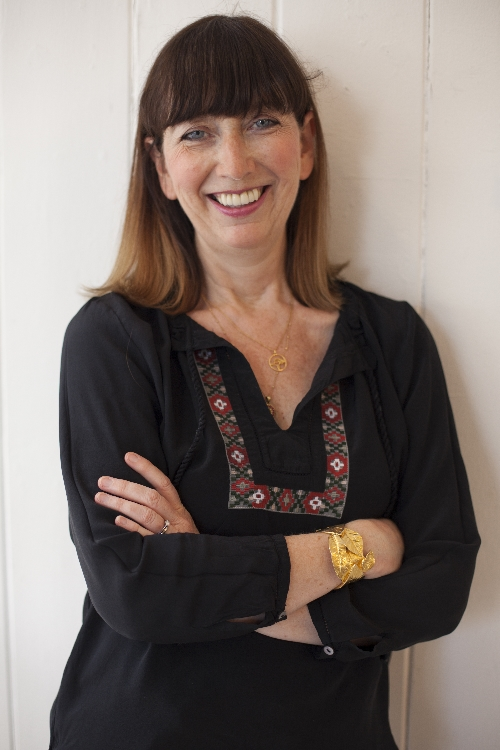
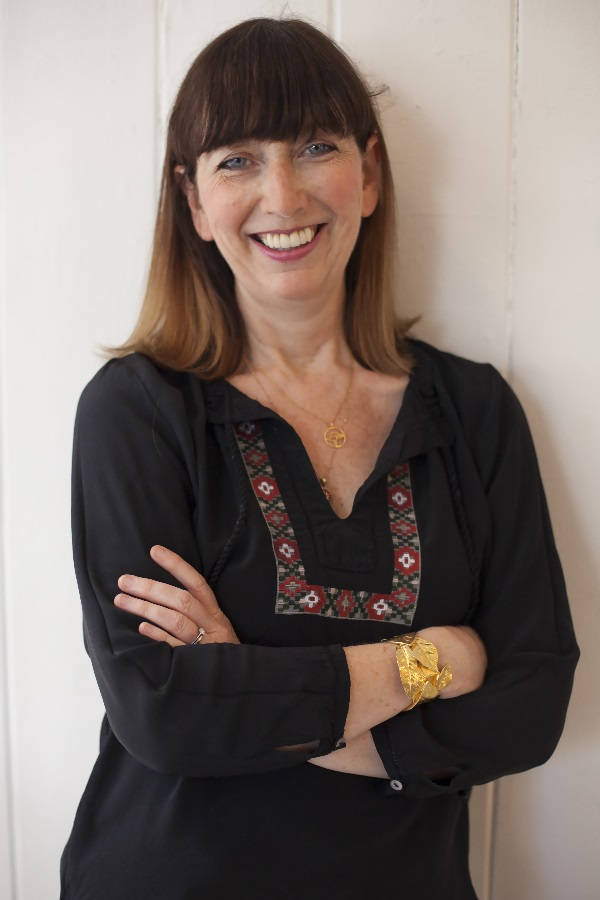
Homepage Maybe

diff --git a/LucyEdgeApp/src/app/ContentArea/Home.html b/LucyEdgeApp/src/app/ContentArea/Home.html
@@ -9,7 +9,9 @@
       </h1><br>
       <div class="subheading mb-5">
 
-        <a href="mailto:lucy@lucyedge.com">lucy@lucyedge.com</a> <br> +44 (0) 7967 757441
+        <a href="mailto:lucy@lucyedge.com">lucy@lucyedge.com</a> <br>
+    <a style="color:#FFFFFF" href="tell: +44 (0) 7967 757441"> +44 (0) 7967 757441</a>
+
       </div>
       <p class="lead mb-5"  >
         Brand Strategist,
@@ -33,28 +35,30 @@
         </div> -->
 </div>
   </section>
-        <div id="tabMore" class="tabMore"><fa-icon [icon]="faChevronDown"></fa-icon></div>
+          <div id="tabMore" class="tabMore"><fa-icon class="iconspink" [icon]="faChevronDown"></fa-icon></div>
   <section class=" p-3 p-lg-5 d-flex d-column" id="Home">
     <div class="my-auto">
 
       <div class="row">
-      <div class="d-none d-lg-block col-lg-4 text-center">
+      <div class="d-none d-lg-block col-lg-5 text-center">
 
       <picture>
          <source srcset="/assets/images/Homepic-Smaller.webp" type="image/webp">
          <source srcset="/assets/images/Homepic-Smaller.jpg" type="image/jpg">
-         <img src="/assets/images/Homepic-Smaller.jpg" alt="Lucy Edge About" class="img-fluid img-responsive img-thumbnail d-none d-sm-block ">
+         <img src="/assets/images/Homepic-Smaller.jpg" alt="Lucy Edge About" class="shadow img-fluid img-responsive d-none d-sm-block ">
      </picture>
 
         </div>
-        <div class="col-lg-8 text-left">
+        <div class="col-lg-7 text-left">
 
-
+<br />
 
                       <h4 class="d-none d-lg-block">  Brand Strategist + Freelance Copywriter Specialising in SEO Copywriting.</h4>
-            <br />
+
+                    <hr class="col-xs-12 d-none d-lg-block"><br/>
+
           <div class="row">
-          <div class="col-sm-12 text-left">
+          <div class="ml-3 col-sm-11">
 
   <p>  Do you need help engaging your customers? Have you got a great brand story that needs telling? Need help turning your workshop outputs into inspiring research concepts? Do you want the words on the page to create evangelists for your brand?
   </p>
@@ -76,21 +80,31 @@
 
 
 
+        <br />
+
 
   <h4>Services</h4>
-  <br />
-<p>
-    <strong>Brand strategy</strong> – defining who are you and what you stand for – including brand manifestos and mission statements.
-</p><p>
-    <strong>SEO copywriting</strong> – commercially focused content marketing strategies, content creation and content editing – from blog posts to product descriptions.
-</p><p>
-    <strong>Conceptual copywriting</strong> – new product concepts, new brand platforms, brand extensions.
-</p><p>
-    <strong>Tone of voice</strong> – defining how you talk, and how you listen.
-</p><p>
-    <strong>Contact</strong> – <a href="mailto:lucy@lucyedge.com">lucy@lucyedge.com</a> 07967 757 441
-</p>
+<hr class="col-xs-12"><br/>
 
+<dl class="row ml-1">
+
+  <dt class="col-sm-4 text-truncate">Brand strategy</dt>
+  <dd class="col-sm-8">defining who are you and what you stand for – including brand manifestos and mission statements.</dd>
+
+  <dt class="col-sm-4 text-truncate">SEO copywriting</dt>
+  <dd class="col-sm-8">commercially focused content marketing strategies, content creation and content editing, from blog posts to product descriptions.</dd>
+
+  <dt class="col-sm-4 text-truncate">Conceptual copywriting</dt>
+  <dd class="col-sm-8">new product concepts, new brand platforms, brand extensions.<br class="d-none d-lg-block "/><br class="d-none d-lg-block "/></dd>
+
+  <dt class="col-sm-4 text-truncate">Tone of voice</dt>
+  <dd class="col-sm-8">defining how you talk, and how you listen.<br class="d-none d-lg-block "/><br class="d-none d-lg-block "/></dd>
+
+  <dt class="col-sm-4 text-truncate">Contact</dt>
+    <dd class="col-sm-8 icon"><fa-icon [icon]="faEnvelope"></fa-icon>&nbsp;&nbsp;<a href="mailto:lucy@lucyedge.com">lucy@lucyedge.com</a><br/>
+      <fa-icon [icon]="faPhone"></fa-icon>&nbsp;&nbsp;<a href="tell:+44 (0) 7967 757 441">+44 (0) 7967 757441</a><br />
+    <fa-icon [icon]="faskype"></fa-icon>&nbsp;&nbsp;<a href="skype:yogaschooldropout?call">yogaschooldropout</a></dd>
+</dl>
 
             </div>
 

diff --git a/LucyEdgeApp/src/assets/css/styles.scss b/LucyEdgeApp/src/assets/css/styles.scss
@@ -67,7 +67,7 @@ p.lead {
 	text-transform: uppercase;
 	font-weight: 500;
 	font-family: $defaultFont;
-	font-size: 1.5rem;
+	font-size: 1.3rem;
 }
 
 #sideNav .navbar-nav .nav-item .nav-link {
@@ -138,10 +138,7 @@ box-shadow: 2px 0px 5px 0px rgba(102,102,102,0.2);
 	}
 }
 
-.img-thumbnail{
-border-color:#e2688763!important;
 
-}
 
 section.resume-section {
 	padding-top: 5rem !important;
@@ -257,7 +254,9 @@ section.default {
 	max-width: 75rem;
 }
 
-
+hr{
+border-color:#a3a3a31c;
+}
 
 @media (min-width: 768px) {
 	section.default {
@@ -265,7 +264,17 @@ section.default {
 	}
 
 }
+.icon fa-icon{
+    margin: 10px;
+	color: $primary;
+}
+.icon a{
 
+	color: #333;
+}
+.iconspink{
+		color: $primary;
+}
 @media (min-width: 992px) {
 	section.default {
 		padding-top: 3rem !important;
@@ -276,8 +285,9 @@ section.default {
 footer{
 	background-color: #343a40;
 	color: #ffffff77;
-	padding: 1px 0px 5px;
-	text-shadow:1px 1px #21272d77;
+	padding: 8px 0px 8px;
+	text-shadow: 1px 1px #21272d77;
+	font-size: 11px;
 }
 footer a {
 		color: #ffffff77;
@@ -302,4 +312,5 @@ footer a:hover,a:active,a:focus {
 	    text-align: center;
 	    padding: 4px;
 			font-size: 11px;
+			margin-bottom: -20px!important;
 }

diff --git a/LucyEdgeApp/src/index.html b/LucyEdgeApp/src/index.html
@@ -3,7 +3,7 @@
 <head>
   <!-- Default TAGS -->
   <base href="/">
-  <meta name="viewport" content="width=device-width, initial-scale=1">
+  <meta name="viewport" content="width=device-width, initial-scale=1, shrink-to-fit=no">
   <!-- Loading CSS Style -->
   <style type="text/css">body,html{height:100%}.app-loading{position:relative;display:flex;flex-direction:column;align-items:center;justify-content:center;height:100%;margin-left:-17rem}.app-loading .spinner{height:100px;width:100px;animation:rotate 2s linear infinite;transform-origin:center center;position:absolute;top:0;bottom:0;left:0;right:0;margin:auto}.app-loading .spinner .path{stroke-dasharray:1,200;stroke-dashoffset:0;animation:dash 1.5s ease-in-out infinite;stroke-linecap:round;stroke:#D31D4C}@keyframes rotate{100%{transform:rotate(360deg)}}@keyframes dash{0%{stroke-dasharray:1,200;stroke-dashoffset:0}50%{stroke-dasharray:89,200;stroke-dashoffset:-35px}100%{stroke-dasharray:89,200;stroke-dashoffset:-124px}}@media (min-width:992px){body{padding-top:0;padding-left:17rem}}</style>
   <!-- COMMON TAGS -->

diff --git a/LucyEdgeApp/src/app/ContentArea/app.Home.ts b/LucyEdgeApp/src/app/ContentArea/app.Home.ts
@@ -1,6 +1,11 @@
 import { Component } from '@angular/core';
 import { Title }     from '@angular/platform-browser';
 import { faChevronDown } from '@fortawesome/free-solid-svg-icons';
+import { faPhone } from '@fortawesome/free-solid-svg-icons';
+import { faSkype } from '@fortawesome/free-brands-svg-icons';
+import { faEnvelope } from '@fortawesome/free-solid-svg-icons';
+
+
 
 @Component({
   selector: 'Home',
@@ -8,5 +13,9 @@ import { faChevronDown } from '@fortawesome/free-solid-svg-icons';
 })
 export class HomeComponent {
     faChevronDown = faChevronDown;
+    faPhone = faPhone;
+    faskype = faSkype;
+    faEnvelope = faEnvelope;
+
     public constructor(private titleService: Title ) {   this.titleService.setTitle( "Brand Strategist + Freelance Copywriter + SEO Copywriting" );}
 }

diff --git a/LucyEdgeApp/src/app/Footer/footer.html b/LucyEdgeApp/src/app/Footer/footer.html
@@ -1,8 +1,7 @@
 <div class="container-fluid text-center ">
   <div>
-  <sub >
+
  Copyright &copy; 2018 - LucyEdge.com -<br class="d-block d-sm-none" /> Website created by <a href="mailto:website@duncanpeach.com">Duncan Peach</a>
 
-</sub>
 </div>
   </div>
